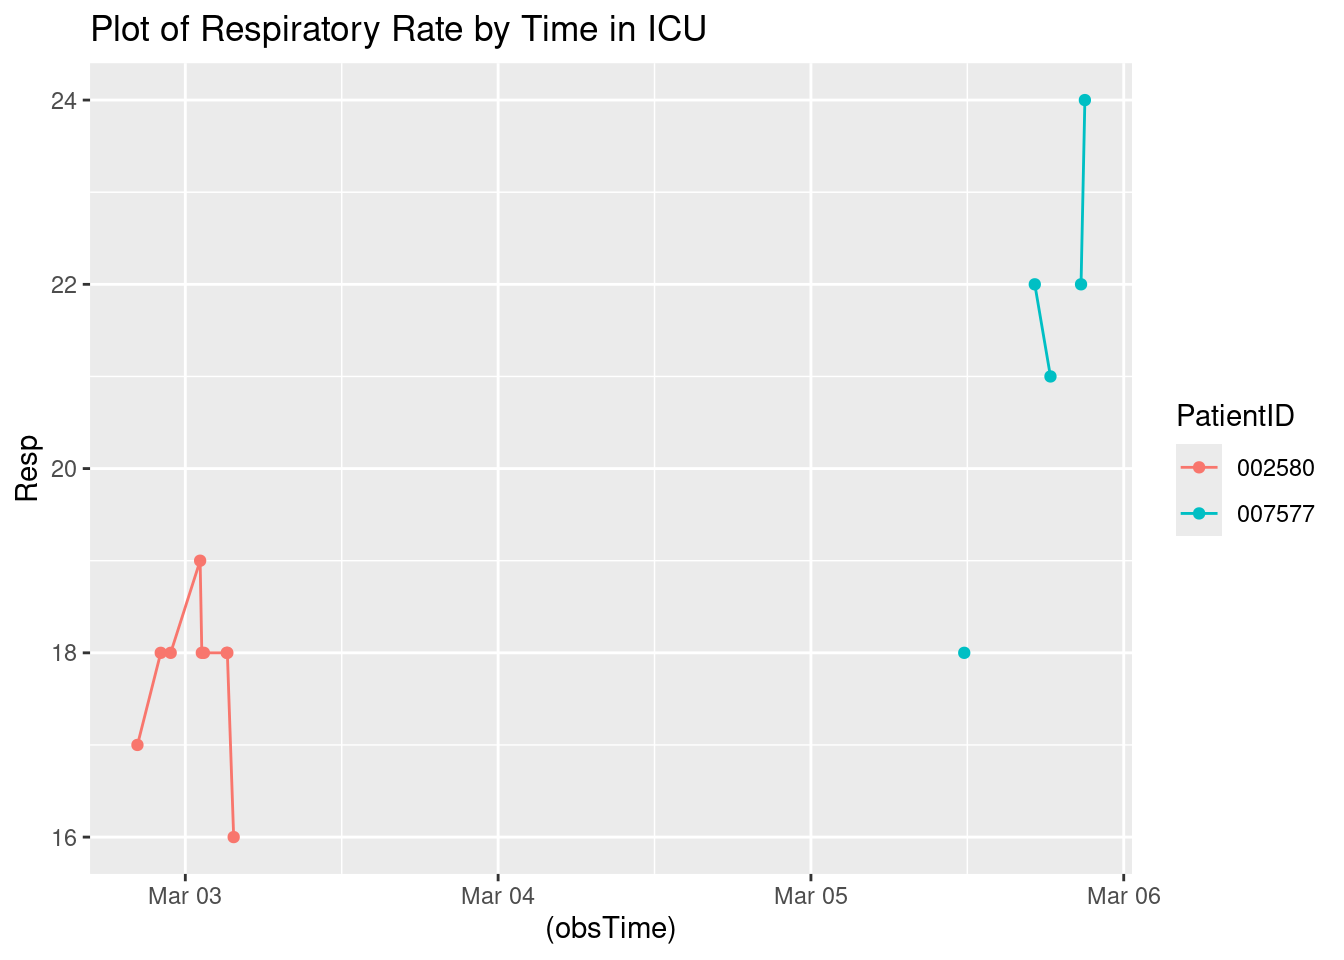
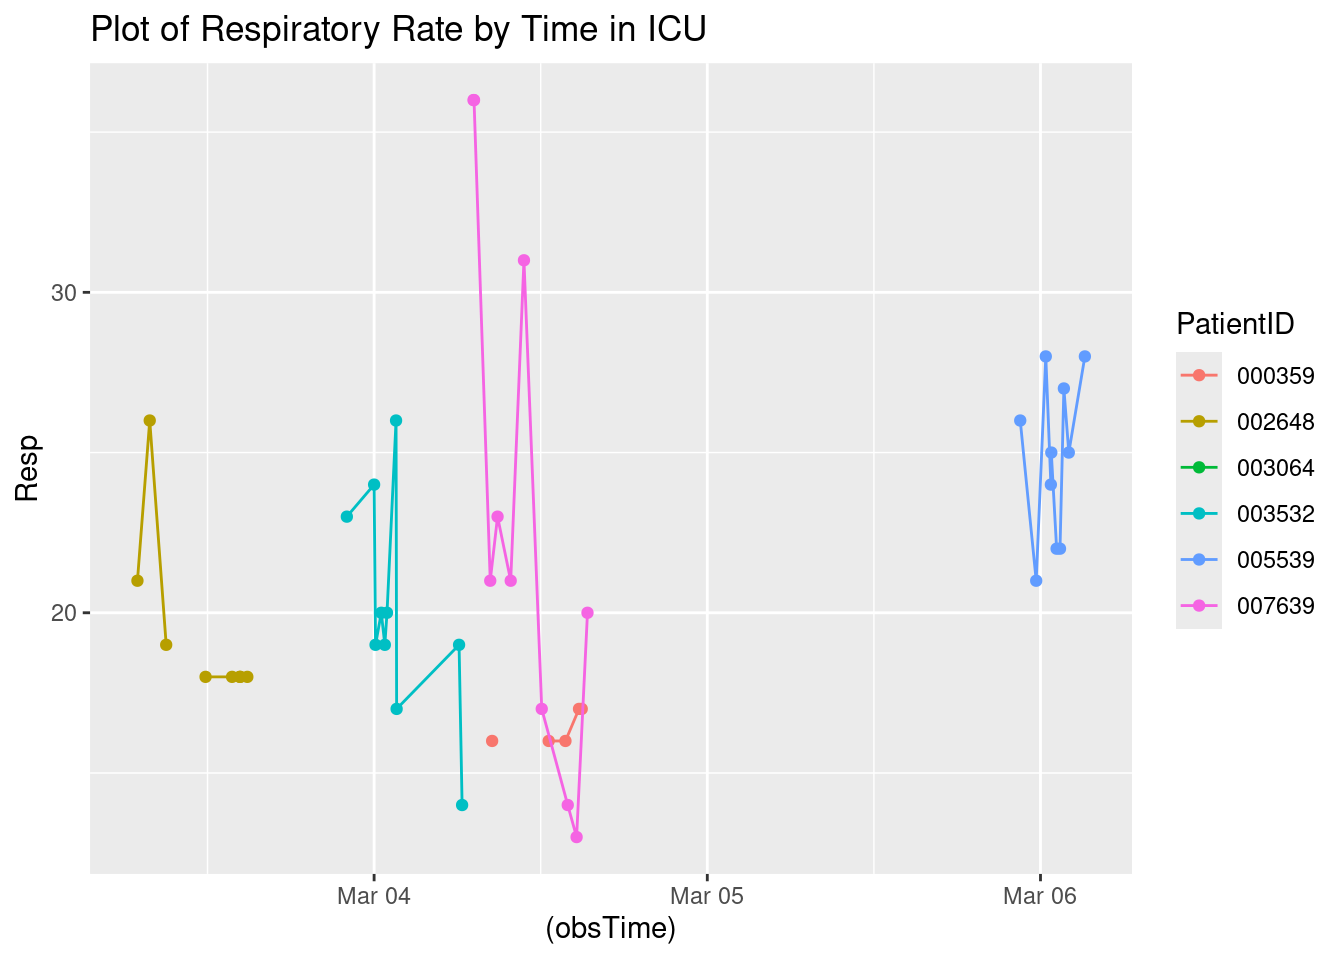
Updated report

diff --git a/A7.html b/A7.html
@@ -116,7 +116,7 @@ pre > code.sourceCode > span > a:first-child::before { text-decoration: underlin
 </div>
 <div class="sourceCode cell-code" id="cb4"><pre class="sourceCode r code-with-copy"><code class="sourceCode r"><span id="cb4-1"><a href="#cb4-1" aria-hidden="true" tabindex="-1"></a><span class="fu">toc</span>()</span></code><button title="Copy to Clipboard" class="code-copy-button"><i class="bi"></i></button></pre></div>
 <div class="cell-output cell-output-stdout">
-<pre><code>12.048 sec elapsed</code></pre>
+<pre><code>15.516 sec elapsed</code></pre>
 </div>
 <div class="sourceCode cell-code" id="cb6"><pre class="sourceCode r code-with-copy"><code class="sourceCode r"><span id="cb6-1"><a href="#cb6-1" aria-hidden="true" tabindex="-1"></a><span class="fu">tic</span>()</span>
 <span id="cb6-2"><a href="#cb6-2" aria-hidden="true" tabindex="-1"></a>test1<span class="ot">=</span><span class="fu">makeSepsisDataset</span>(<span class="at">n=</span><span class="dv">50</span>,<span class="at">read_fn =</span> <span class="st">"read_delim"</span>)</span>
@@ -126,7 +126,7 @@ pre > code.sourceCode > span > a:first-child::before { text-decoration: underlin
 </div>
 <div class="sourceCode cell-code" id="cb8"><pre class="sourceCode r code-with-copy"><code class="sourceCode r"><span id="cb8-1"><a href="#cb8-1" aria-hidden="true" tabindex="-1"></a><span class="fu">toc</span>()</span></code><button title="Copy to Clipboard" class="code-copy-button"><i class="bi"></i></button></pre></div>
 <div class="cell-output cell-output-stdout">
-<pre><code>8.2 sec elapsed</code></pre>
+<pre><code>9.043 sec elapsed</code></pre>
 </div>
 <div class="sourceCode cell-code" id="cb10"><pre class="sourceCode r code-with-copy"><code class="sourceCode r"><span id="cb10-1"><a href="#cb10-1" aria-hidden="true" tabindex="-1"></a><span class="co"># n=100</span></span>
 <span id="cb10-2"><a href="#cb10-2" aria-hidden="true" tabindex="-1"></a><span class="fu">tic</span>()</span>
@@ -137,7 +137,7 @@ pre > code.sourceCode > span > a:first-child::before { text-decoration: underlin
 </div>
 <div class="sourceCode cell-code" id="cb12"><pre class="sourceCode r code-with-copy"><code class="sourceCode r"><span id="cb12-1"><a href="#cb12-1" aria-hidden="true" tabindex="-1"></a><span class="fu">toc</span>()</span></code><button title="Copy to Clipboard" class="code-copy-button"><i class="bi"></i></button></pre></div>
 <div class="cell-output cell-output-stdout">
-<pre><code>17.158 sec elapsed</code></pre>
+<pre><code>17.43 sec elapsed</code></pre>
 </div>
 <div class="sourceCode cell-code" id="cb14"><pre class="sourceCode r code-with-copy"><code class="sourceCode r"><span id="cb14-1"><a href="#cb14-1" aria-hidden="true" tabindex="-1"></a><span class="fu">tic</span>()</span>
 <span id="cb14-2"><a href="#cb14-2" aria-hidden="true" tabindex="-1"></a>test1<span class="ot">=</span><span class="fu">makeSepsisDataset</span>(<span class="at">n=</span><span class="dv">100</span>,<span class="at">read_fn =</span> <span class="st">"read_delim"</span>)</span>
@@ -147,7 +147,7 @@ pre > code.sourceCode > span > a:first-child::before { text-decoration: underlin
 </div>
 <div class="sourceCode cell-code" id="cb16"><pre class="sourceCode r code-with-copy"><code class="sourceCode r"><span id="cb16-1"><a href="#cb16-1" aria-hidden="true" tabindex="-1"></a><span class="fu">toc</span>()</span></code><button title="Copy to Clipboard" class="code-copy-button"><i class="bi"></i></button></pre></div>
 <div class="cell-output cell-output-stdout">
-<pre><code>15.844 sec elapsed</code></pre>
+<pre><code>17.474 sec elapsed</code></pre>
 </div>
 <div class="sourceCode cell-code" id="cb18"><pre class="sourceCode r code-with-copy"><code class="sourceCode r"><span id="cb18-1"><a href="#cb18-1" aria-hidden="true" tabindex="-1"></a><span class="co"># n=500</span></span>
 <span id="cb18-2"><a href="#cb18-2" aria-hidden="true" tabindex="-1"></a><span class="fu">tic</span>()</span>
@@ -158,7 +158,7 @@ pre > code.sourceCode > span > a:first-child::before { text-decoration: underlin
 </div>
 <div class="sourceCode cell-code" id="cb20"><pre class="sourceCode r code-with-copy"><code class="sourceCode r"><span id="cb20-1"><a href="#cb20-1" aria-hidden="true" tabindex="-1"></a><span class="fu">toc</span>()</span></code><button title="Copy to Clipboard" class="code-copy-button"><i class="bi"></i></button></pre></div>
 <div class="cell-output cell-output-stdout">
-<pre><code>85.803 sec elapsed</code></pre>
+<pre><code>88.773 sec elapsed</code></pre>
 </div>
 <div class="sourceCode cell-code" id="cb22"><pre class="sourceCode r code-with-copy"><code class="sourceCode r"><span id="cb22-1"><a href="#cb22-1" aria-hidden="true" tabindex="-1"></a><span class="fu">tic</span>()</span>
 <span id="cb22-2"><a href="#cb22-2" aria-hidden="true" tabindex="-1"></a>test1<span class="ot">=</span><span class="fu">makeSepsisDataset</span>(<span class="at">n=</span><span class="dv">500</span>,<span class="at">read_fn =</span> <span class="st">"read_delim"</span>)</span>
@@ -168,7 +168,7 @@ pre > code.sourceCode > span > a:first-child::before { text-decoration: underlin
 </div>
 <div class="sourceCode cell-code" id="cb24"><pre class="sourceCode r code-with-copy"><code class="sourceCode r"><span id="cb24-1"><a href="#cb24-1" aria-hidden="true" tabindex="-1"></a><span class="fu">toc</span>()</span></code><button title="Copy to Clipboard" class="code-copy-button"><i class="bi"></i></button></pre></div>
 <div class="cell-output cell-output-stdout">
-<pre><code>78.197 sec elapsed</code></pre>
+<pre><code>88.678 sec elapsed</code></pre>
 </div>
 </div>
 <p><strong>Task 3</strong></p>
@@ -194,7 +194,7 @@ pre > code.sourceCode > span > a:first-child::before { text-decoration: underlin
 <span id="cb28-4"><a href="#cb28-4" aria-hidden="true" tabindex="-1"></a></span>
 <span id="cb28-5"><a href="#cb28-5" aria-hidden="true" tabindex="-1"></a><span class="fu">Sys.time</span>()</span></code><button title="Copy to Clipboard" class="code-copy-button"><i class="bi"></i></button></pre></div>
 <div class="cell-output cell-output-stdout">
-<pre><code>[1] "2024-03-02 20:19:34 UTC"</code></pre>
+<pre><code>[1] "2024-03-02 21:17:37 UTC"</code></pre>
 </div>
 <div class="sourceCode cell-code" id="cb30"><pre class="sourceCode r code-with-copy"><code class="sourceCode r"><span id="cb30-1"><a href="#cb30-1" aria-hidden="true" tabindex="-1"></a>dfnew <span class="ot">&lt;-</span> df <span class="sc">%&gt;%</span></span>
 <span id="cb30-2"><a href="#cb30-2" aria-hidden="true" tabindex="-1"></a>  <span class="fu">subset</span>(SepsisLabel<span class="sc">==</span><span class="dv">1</span>)</span>
@@ -223,22 +223,58 @@ pre > code.sourceCode > span > a:first-child::before { text-decoration: underlin
 </thead>
 <tbody>
 <tr class="odd">
-<td style="text-align: left;">002580</td>
-<td style="text-align: right;">8</td>
-<td style="text-align: right;">82</td>
+<td style="text-align: left;">000359</td>
+<td style="text-align: right;">42</td>
+<td style="text-align: right;">66</td>
 <td style="text-align: right;">NA</td>
-<td style="text-align: right;">16</td>
+<td style="text-align: right;">17</td>
 <td style="text-align: right;">1</td>
-<td style="text-align: left;">2024-03-03 03:42:34</td>
+<td style="text-align: left;">2024-03-04 14:57:18</td>
 </tr>
 <tr class="even">
-<td style="text-align: left;">007577</td>
-<td style="text-align: right;">75</td>
-<td style="text-align: right;">87</td>
+<td style="text-align: left;">002648</td>
+<td style="text-align: right;">18</td>
+<td style="text-align: right;">117</td>
 <td style="text-align: right;">NA</td>
-<td style="text-align: right;">24</td>
+<td style="text-align: right;">18</td>
 <td style="text-align: right;">1</td>
-<td style="text-align: left;">2024-03-05 21:01:07</td>
+<td style="text-align: left;">2024-03-03 14:52:04</td>
+</tr>
+<tr class="odd">
+<td style="text-align: left;">003064</td>
+<td style="text-align: right;">51</td>
+<td style="text-align: right;">NA</td>
+<td style="text-align: right;">NA</td>
+<td style="text-align: right;">NA</td>
+<td style="text-align: right;">1</td>
+<td style="text-align: left;">2024-03-04 23:48:10</td>
+</tr>
+<tr class="even">
+<td style="text-align: left;">003532</td>
+<td style="text-align: right;">34</td>
+<td style="text-align: right;">93</td>
+<td style="text-align: right;">NA</td>
+<td style="text-align: right;">14</td>
+<td style="text-align: right;">1</td>
+<td style="text-align: left;">2024-03-04 06:20:17</td>
+</tr>
+<tr class="odd">
+<td style="text-align: left;">005539</td>
+<td style="text-align: right;">79</td>
+<td style="text-align: right;">110</td>
+<td style="text-align: right;">NA</td>
+<td style="text-align: right;">28</td>
+<td style="text-align: right;">1</td>
+<td style="text-align: left;">2024-03-06 03:11:49</td>
+</tr>
+<tr class="even">
+<td style="text-align: left;">007639</td>
+<td style="text-align: right;">45</td>
+<td style="text-align: right;">66</td>
+<td style="text-align: right;">36.78</td>
+<td style="text-align: right;">20</td>
+<td style="text-align: right;">1</td>
+<td style="text-align: left;">2024-03-04 15:22:10</td>
 </tr>
 </tbody>
 </table>
